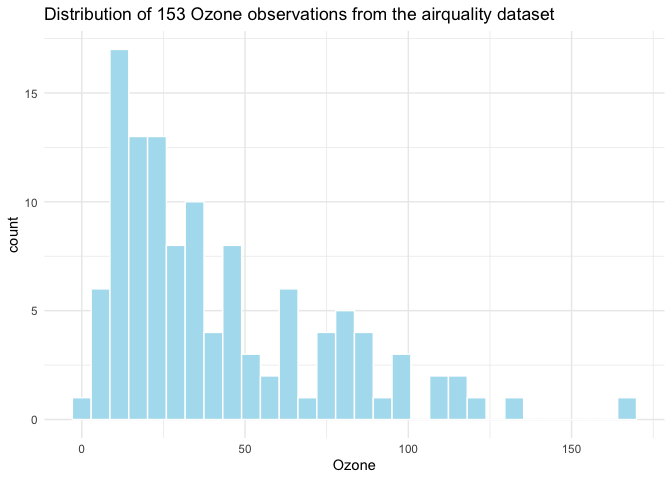
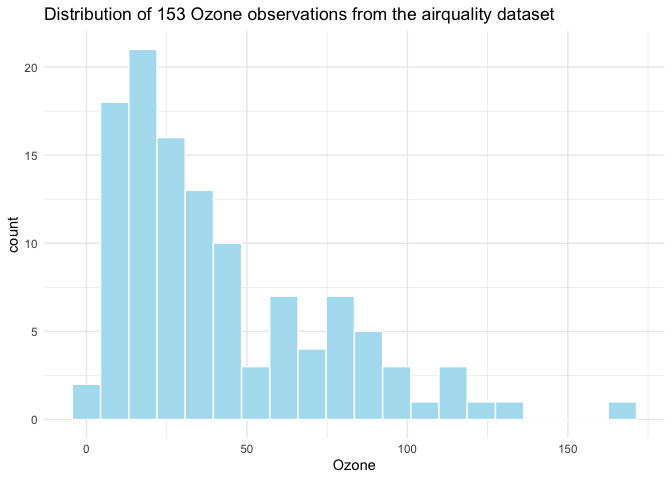
Mentioning stackoverflow is causing issues.

diff --git a/README.md b/README.md
@@ -53,10 +53,9 @@ data(airquality)
 # take a look at the Ozone variable
 
 ggplot(airquality) +
-  geom_histogram(aes(Ozone), col = "white", fill = "#AFDFEF") +
+  geom_histogram(aes(Ozone), col = "white", fill = "#AFDFEF", bins = 20) +
   theme_minimal() +
   labs(title = "Distribution of 153 Ozone observations from the airquality dataset")
-#> `stat_bin()` using `bins = 30`. Pick better value with `binwidth`.
 #> Warning: Removed 37 rows containing non-finite values (`stat_bin()`).
 ```
 
@@ -78,11 +77,10 @@ Take a look at the mirrored colum for Ozone:
 ``` r
 
 ggplot(air_mirror$simulated_df) +
-  geom_histogram(aes(Ozone), col = "white", fill = "#AFDFEF") +
+  geom_histogram(aes(Ozone), col = "white", fill = "#AFDFEF", bins = 20) +
   theme_minimal() +
   labs(title = "Distribution of 1,000 Ozone observations from a mirrored dataset")
-#> `stat_bin()` using `bins = 30`. Pick better value with `binwidth`.
-#> Warning: Removed 18 rows containing non-finite values (`stat_bin()`).
+#> Warning: Removed 11 rows containing non-finite values (`stat_bin()`).
 ```
 
 <img src="man/figures/README-example3-1.png" width="100%" />
